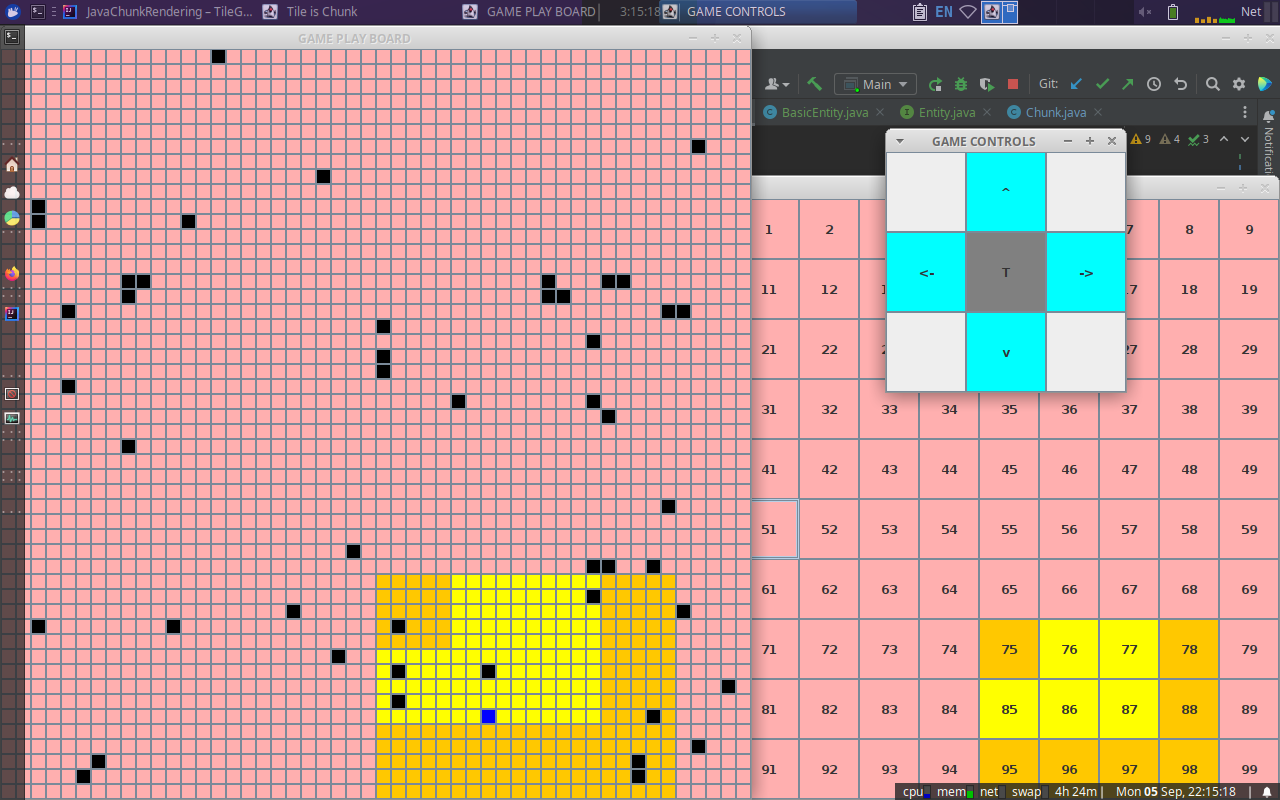
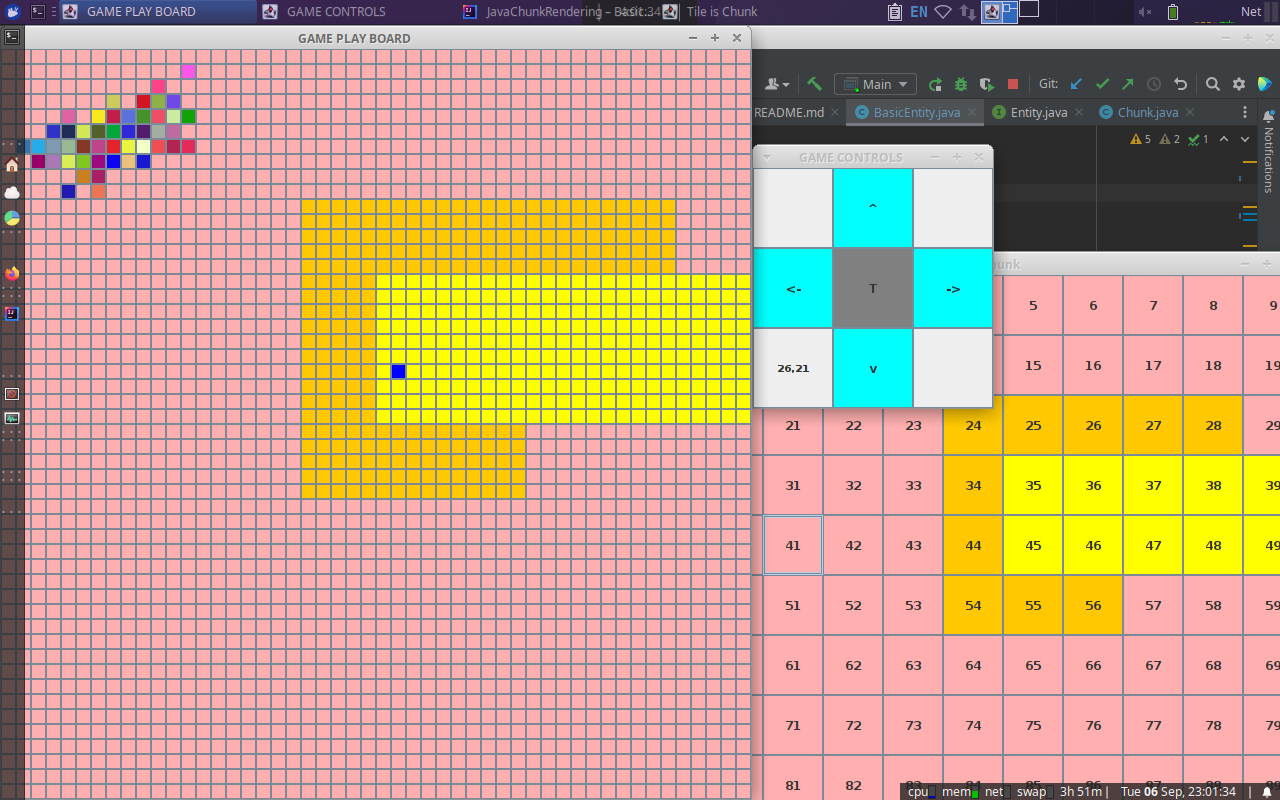
Moved entity storage to within chunk. Some new bugs now related, entitiy movement is broken.

diff --git a/src/com/company/BasicEntity.java b/src/com/company/BasicEntity.java
@@ -5,17 +5,15 @@ import java.util.ArrayList;
 
 public class BasicEntity implements Entity {
 
-    private static ArrayList<Entity> _sharedEntities;
+//    private static ArrayList<Entity> _sharedEntities;
     private static TileIsChunk _sharedChunks;
 
     public static int id;
     private int[] xy = new int[]{0,0};
     private Color color = Defaults.ERROR_COLOR;
 
-    static void setSharedStatics(ArrayList<Entity> oneTimeSet, TileIsChunk oneTimeSet2){//TODO: Make more secure and come up with better names
-        if(_sharedEntities == null){
-            _sharedEntities = oneTimeSet;
-        }
+//    static void setSharedStatics(ArrayList<Entity> oneTimeSet, TileIsChunk oneTimeSet2){//TODO: Make more secure and come up with better names
+    static void setSharedStatics(TileIsChunk oneTimeSet2){//TODO: Make more secure and come up with better names
         if(_sharedChunks == null){
             _sharedChunks = oneTimeSet2;
         }
@@ -67,38 +65,43 @@ public class BasicEntity implements Entity {
     }
 
     @Override
-    public boolean tryToMove(int newX, int newY){
-        //TODO: See if more efficient way to check for collisions
-        int[] test = new int[] {newX,newY};
-        for(Entity entity: _sharedEntities){
-            if(entity.getXY() == test){
-                System.out.println("HHHHHHHHHHHHHHHHHHHHHHHHHHHHHHHHHHHHHHHHHHHHHHHHHHHHHHHHHHHHHHHHHHHHHHHHHHHHHHHHHHHHHHHHHHHHHHHHHHHHHHHHHHHHHHHHHHHHHHHHHHHHHHHHHHHHHHHHHHHHHHHHHHHHHH");
-                return false;
-            }
-        }
-        _sharedChunks.getGameTile(xy[0],xy[1]).setBackground(_sharedChunks.getGameTile(xy[0],xy[1]).getColor());
-
-        try{
-            _sharedChunks.getGameTile(newX,newY).setBackground(Color.red);//TODO: Make better @@@
-            this.xy = new int[]{newX,newY};
-            _sharedChunks.getGameTile(xy[0],xy[1]).setBackground(this.color);
-        }catch(NullPointerException e){
-//            e.printStackTrace();
-        }
-
-        //Make sure not out of bounds by checking if chunk exists
+    public boolean tryToMove(int newX, int newY){//TODO: Change to shorts if only calculating within a chunk
+//        //TODO: See if more efficient way to check for collisions
+//        int[] test = new int[] {newX,newY};
+//        for(Entity entity: _sharedEntities){
+//            if(entity.getXY() == test){
+//                System.out.println("HHHHHHHHHHHHHHHHHHHHHHHHHHHHHHHHHHHHHHHHHHHHHHHHHHHHHHHHHHHHHHHHHHHHHHHHHHHHHHHHHHHHHHHHHHHHHHHHHHHHHHHHHHHHHHHHHHHHHHHHHHHHHHHHHHHHHHHHHHHHHHHHHHHHHH");
+//                return false;
+//            }
+//        }
+//        _sharedChunks.getGameTile(xy[0],xy[1]).setBackground(_sharedChunks.getGameTile(xy[0],xy[1]).getColor());
+//
 //        try{
-//            if(chunkDisplayAndController.getGameTile(newX, newY).landable){
-//                setPlayerTileColor(chunkDisplayAndController.getGameTile(playerX,playerY).getColor());
-//                //            setPlayerTileColor(Color.red);
+//            _sharedChunks.getGameTile(newX,newY).setBackground(Color.red);
+//            this.xy = new int[]{newX,newY};
+//            _sharedChunks.getGameTile(xy[0],xy[1]).setBackground(this.color);
+//        }catch(NullPointerException e){
+////            e.printStackTrace();
+//        }
+//        _sharedChunks.setGameTileColorTemp(this.getX(), this.getY(), Color.MAGENTA);
+        _sharedChunks.getGameTile(this.getX(),this.getY()).updateColorInDisplay();
+//        Make sure not out of bounds by checking if chunk exists
+        try{
+            if(_sharedChunks.getGameTile(newX, newY).landable){
+                _sharedChunks.getGameTile(this.getX(),this.getY()).updateColorInDisplay();
+                //            setPlayerTileColor(Color.red);
+//                if(_sharedChunks.getChunkNumXYFromGameXY()){@@@@@@@@@@@@@@@@@@@@@@@@@@@@@@@@@@@@@@@@@@@@@@@@@@@@@@@@@
+//
+//                }
 //                playerX = newX;
 //                playerY = newY;
-//                colorPlayerChunk();//TODO: Make more efficent?
-//                setPlayerTileColorTemp(Defaults.PLAYER_COLOR);
-//            }
-//        }catch(ArrayIndexOutOfBoundsException e){
-////            System.out.println("Sorry but that space does not exist.");
-//        }
+//                colorPlayerChunk();//TODO: Make more efficient?
+//                _sharedChunks.setGameTileColorTemp(this.getX(), this.getY(), Color.MAGENTA);
+                _sharedChunks.setGameTileColorTemp(this.getX(), this.getY(), new Color((int) (Math.random()*255), (int) (Math.random()*255), (int) (Math.random()*255)));
+            }
+        }catch(ArrayIndexOutOfBoundsException e){
+//            System.out.println("Sorry but that space does not exist.");
+        }
         return true;
     }
 

diff --git a/src/com/company/TileIsChunk.java b/src/com/company/TileIsChunk.java
@@ -47,7 +47,7 @@ public class TileIsChunk implements ActionListener {
             tmpButton.setColor(Defaults.STARTING_COLOR);
             tmpButton.setText(i+"");
             tileArray[i] = tmpButton;
-            chunks[i] = new Chunk(this.chunkWidthInTiles, Color.GREEN);
+            chunks[i] = new Chunk(this.gameNumOfTilesWidth,  this.chunkWidthInTiles, i, Color.GREEN);
         }
 
 
@@ -69,17 +69,19 @@ public class TileIsChunk implements ActionListener {
      * Select a constant number of locations from each entity-processing chunk and call the randomTick method on each selected tile.
      */
     public void runRandomTicks(final int tilesPerChunk){
-        for( int chunkLocationInStorage: entityChunks){
+        for(int chunkLocationInStorage: entityChunks){
             for(int i=0; i<tilesPerChunk; i++){
                 chunks[chunkLocationInStorage].playTiles[(int)Math.round(Math.random()*(this.chunkWidthInTiles-1))][(int)Math.round(Math.random()*(this.chunkWidthInTiles-1))].randomTick();//See if I can just truncate for speed.
             }
         }
     }
 
-
-    public void displayCurrentPlayersChunk(){
-
+    public void tickEntities(){
+        for(int chunkLocationInStorage: entityChunks){
+            chunks[chunkLocationInStorage].tickEntities();
+        }
     }
+
     public GameTile getGameTile(int x, int y){
         try{
             return chunks[(y/chunkWidthInTiles)*gameNumOfTilesWidth+x/chunkWidthInTiles].playTiles[x%chunkWidthInTiles][y%chunkWidthInTiles];
@@ -141,7 +143,7 @@ public class TileIsChunk implements ActionListener {
         }
         recalculateChunkLayers();
 //        System.out.println("Lazy.size = "+lazyChunks.size());
-        updateChunkList(12);
+        updateChunkList(20);
 //        System.out.println("Lazy.size = "+lazyChunks.size());
 
         return returnStatus;
@@ -184,7 +186,11 @@ public class TileIsChunk implements ActionListener {
         return chunks[(y/this.chunkWidthInTiles)*this.gameNumOfTilesWidth+x/this.chunkWidthInTiles];
     }
 
-    public boolean addChunkFromIndex(int x, int y){
+    public Chunk getChunkFromIndex(int index){
+        return chunks[index];
+    }
+
+    public boolean addChunkFromIndex(int x, int y){//TODO: Rename
         try {
 //            System.out.println("x = " + x + ", y = " + y);
             if (this.addChunkToLazyProcessing(tileArray[y * this.gameNumOfTilesWidth + x]) > 2) {

diff --git a/src/com/company/TileGame.java b/src/com/company/TileGame.java
@@ -18,9 +18,6 @@ public class TileGame implements Runnable  {
     JFrame gameBoardFrame;
     JTextField t1;
 
-//    Map<Integer[],Entity> entities = new HashMap();
-    ArrayList<Entity> entities = new ArrayList<>();
-
     int playerX = 0;
     int playerY = 0;
 
@@ -29,7 +26,7 @@ public class TileGame implements Runnable  {
         //Run everything in a tick
         while(true){
             try {
-                Thread.sleep(500);
+                Thread.sleep(1000);
 //                byte direction = (byte) (Math.random()*4D);
 //
 //                switch(direction){
@@ -49,32 +46,22 @@ public class TileGame implements Runnable  {
 //                        break;
 //                }
 
-
-                for(Entity entity: entities){
-                    entity.onTick();
-                }
-
-
                 } catch (InterruptedException e) {
 //                throw new RuntimeException(e);
             }
-//            System.out.println("-----------------------------------------Hello from other thread");
             chunkDisplayAndController.runRandomTicks(TILES_PER_CHUNK_PER_RANDOM_TICK);
-//            moveSouth();
-//            System.out.println("-----------------------------------------Hello from other thread END");
+//            chunkDisplayAndController.tickTileElements();
+            System.out.println("Going to tick entities");
+            chunkDisplayAndController.tickEntities();
+
         }
     }
 
     public TileGame(){
         //Create Board Chunks
         chunkDisplayAndController = new TileIsChunk(GAME_WIDTH_IN_CHUNKS, CHUNK_WIDTH_IN_TILES);
+        BasicEntity.setSharedStatics(chunkDisplayAndController);
         //Generate Chunks
-
-        //Set Statics
-        BasicEntity.setSharedStatics(entities,chunkDisplayAndController);
-        for(int i = 0; i < 50; i++){
-            entities.add(new BasicEntity(i,(int) (Math.random()*(GAME_WIDTH_IN_CHUNKS*CHUNK_WIDTH_IN_TILES-2)),(int) (Math.random()*(GAME_WIDTH_IN_CHUNKS*CHUNK_WIDTH_IN_TILES-2)), Color.BLACK));
-        }
 
         gameBoardFrame = new JFrame("GAME PLAY BOARD");
         t1 = new JTextField("");

diff --git a/src/com/company/Chunk.java b/src/com/company/Chunk.java
@@ -3,12 +3,17 @@ package com.company;
 import com.company.tileTypes.GameTile;
 
 import java.awt.*;
+import java.nio.file.FileSystemNotFoundException;
+import java.sql.SQLOutput;
+import java.util.ArrayList;
 
 public class Chunk{
 
     public static final short chunkWidthForDimensions = 15;
 
     GameTile[][] playTiles;
+    //    Map<Integer[],Entity> entities = new HashMap();
+    ArrayList<Entity> entities = new ArrayList<>();
 
     public Chunk(short chunkWidth){
         playTiles = new GameTile[chunkWidth][chunkWidth];
@@ -22,7 +27,7 @@ public class Chunk{
         }
     }
 
-    public Chunk(short chunkWidth, Color setColor){
+    public Chunk(int gameWidthInTiles, short chunkWidth, int chunkNumber, Color setColor){
         playTiles = new GameTile[chunkWidth][chunkWidth];
 
         for(int i = 0; i < playTiles.length; i++){
@@ -32,6 +37,10 @@ public class Chunk{
                 playTiles[i][j].setPreferredSize(new Dimension(chunkWidthForDimensions,chunkWidthForDimensions));
                 playTiles[i][j].setColor(Defaults.STARTING_COLOR);
             }
+        }
+
+        for(int i = 0; i < 5; i++){
+            entities.add(new BasicEntity(i,chunkNumber%gameWidthInTiles+(int)(Math.random()*(chunkWidth-1)),chunkNumber/gameWidthInTiles+(int)(Math.random()*(chunkWidth-1)), Color.BLACK));
         }
         setAllChunkColor(setColor);
     }
@@ -80,8 +89,17 @@ public class Chunk{
             }
         }
     }
+    public void randomTick(){
 
-    public void attemptRandomTick(){
+    }
 
+    public void tickEntities(){
+        for(Entity entity: entities){
+            try{
+                entity.onTick();
+            }catch(Exception e){
+                e.printStackTrace();
+            }
+        }
     }
 }
